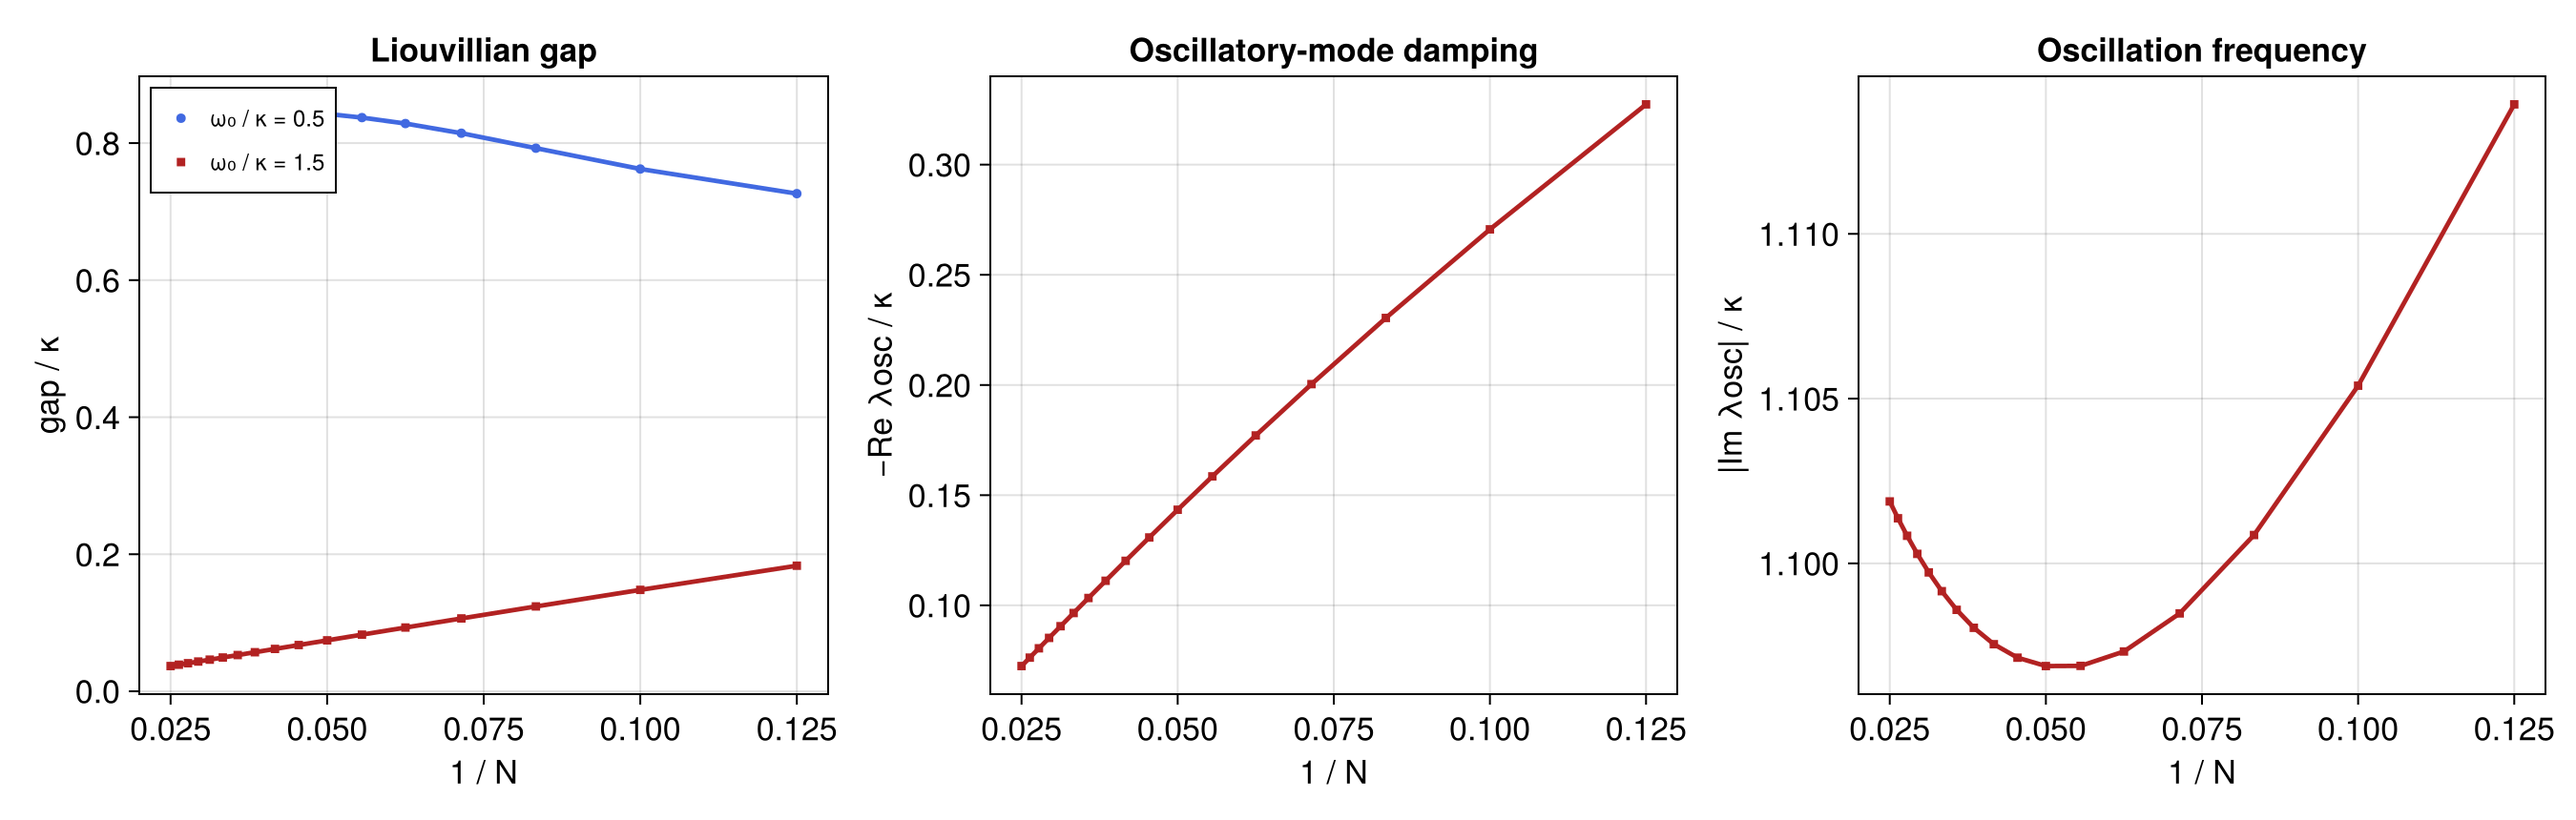
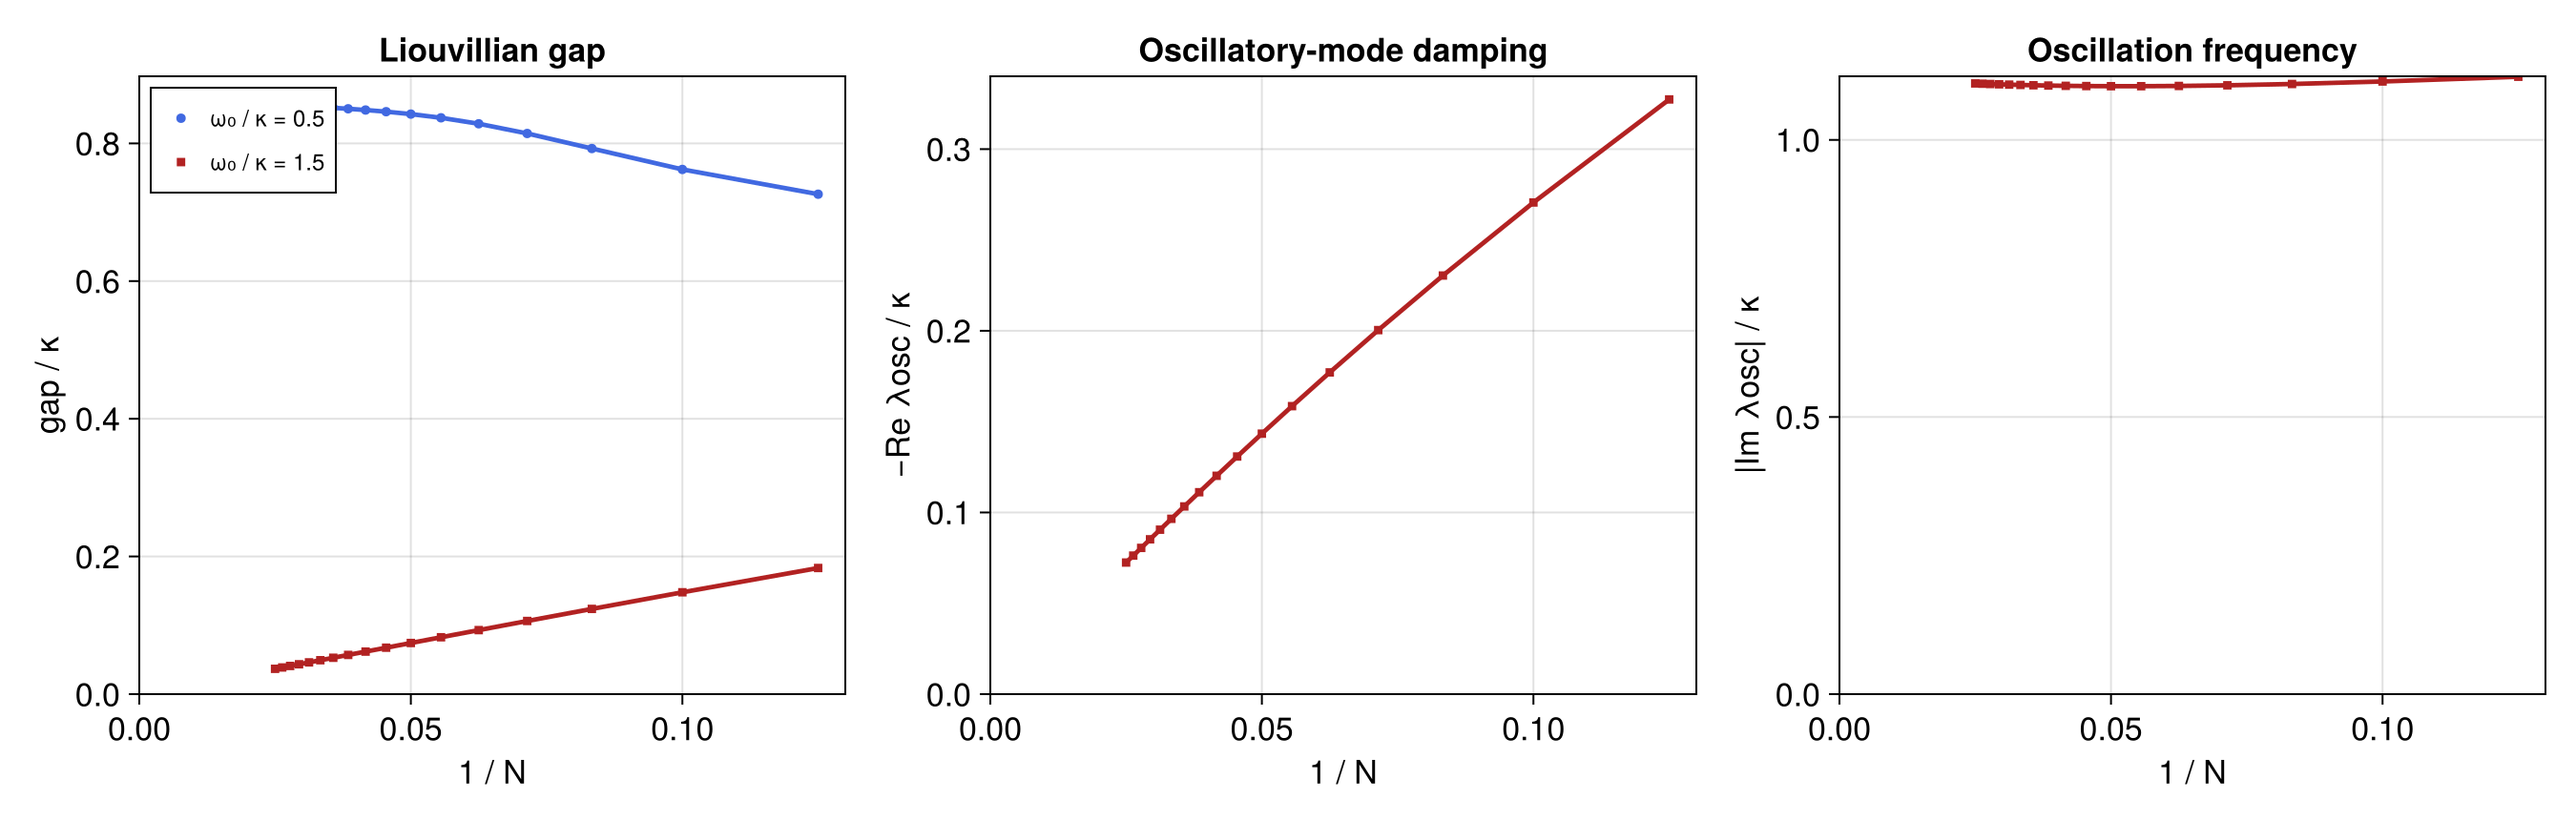
Examples improved

diff --git a/examples/boundary_time_crystal.md b/examples/boundary_time_crystal.md
@@ -51,9 +51,12 @@ time-crystalline parameter ratios use consistent colours and markers in the
 gap panel. The damping and frequency panels show the resolved oscillatory
 branch only for `ω0/κ = 1.5`; below threshold the leading selected modes are
 real, so the script does not promote a faster, remote mode into an artificial
-"slow oscillatory" curve. The normal figure contains 17 points per curve and
-uses compact markers suited to that resolution. PDF and PNG copies are saved
-as `boundary_time_crystal.*`.
+"slow oscillatory" curve. All three inverse-size panels start both axes at
+zero. This exposes the thermodynamic endpoint `1/N = 0` and prevents the
+nearly size-independent frequency from appearing artificially variable. The
+normal figure contains 17 points per curve and uses compact markers suited to
+that resolution. PDF and PNG copies are saved as
+`boundary_time_crystal.*`.
 
 ## Run
 

diff --git a/examples/interacting_boundary_time_crystal.md b/examples/interacting_boundary_time_crystal.md
@@ -85,8 +85,11 @@ When CairoMakie is available, the script creates a two-panel finite-size
 spectral summary. The first panel shows the decay rate of the selected slow
 oscillatory mode; the second shows its frequency. The panels display all nine
 computed sizes directly and do not fit the asymptotic exponent reported in the
-paper. Thus the figure visualizes a finite-size precursor, not evidence by
-itself for persistent thermodynamic oscillations.
+paper. The frequency panel includes zero on its vertical axis, so a nearly
+constant nonzero imaginary part is shown on an honest absolute scale rather
+than magnified by a narrow automatic range. Thus the figure visualizes a
+finite-size precursor, not evidence by itself for persistent thermodynamic
+oscillations.
 
 Vector PDF and raster PNG copies are written as
 `interacting_boundary_time_crystal.*` in the configured example-figure

diff --git a/AGENTS.md b/AGENTS.md
@@ -738,6 +738,11 @@ CI or Documenter. Update a snapshot only from a successful default run,
 review it visually, keep stochastic seeds and convergence caveats explicit,
 and commit no generated PDF.
 
+Finite-size gap plots against `1/N` anchor both axes at zero. A plot of an
+approximately size-independent nonzero quantity, such as the imaginary part
+of a slow Liouvillian mode, must include zero on its value axis rather than
+magnifying small variations with a narrow automatic range.
+
 `examples/catalog.toml` is the complete machine-readable inventory of paired
 scripts and guides. `scripts/generate_example_gallery.jl` deterministically
 renders the tracked browser-side gallery from that catalog; the catalog test
